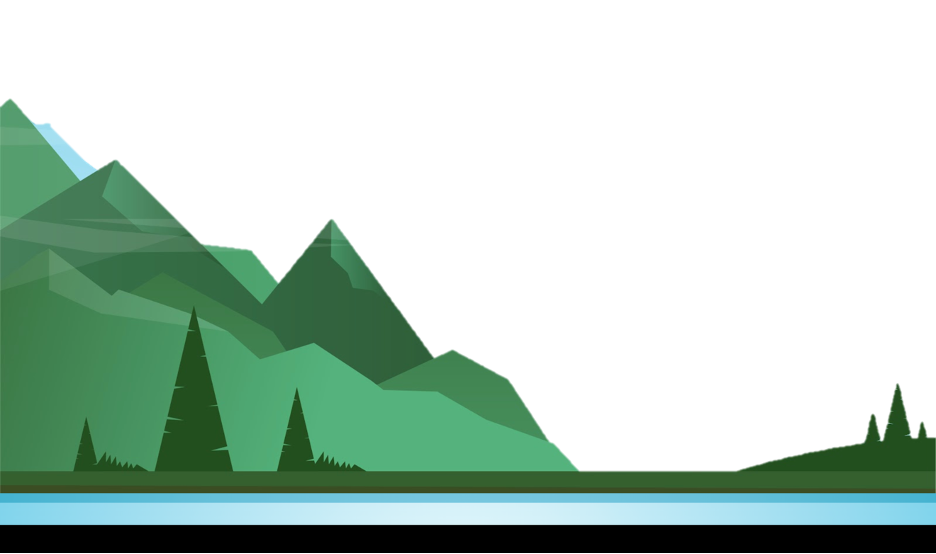
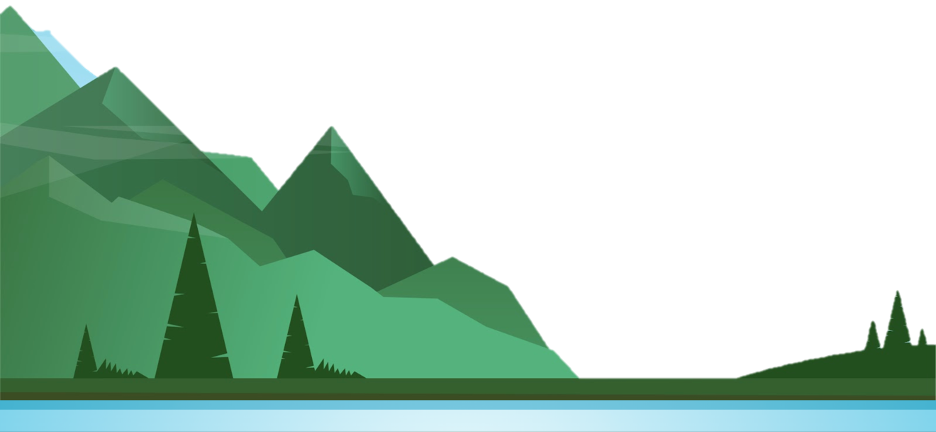
Landing page

diff --git a/app/imports/ui/pages/Landing.jsx b/app/imports/ui/pages/Landing.jsx
@@ -3,21 +3,20 @@ import { Col, Container, Image, Row } from 'react-bootstrap';
 
 /* A simple static component to render some text for the landing page. */
 const Landing = () => (
-  <div>
-    <Container id="landing-page" fluid className="py-3">
-      <div style={{ zIndex: 2 }}>
-        <h1>Welcome to Gawkysaur!</h1>
-      </div>
-      <div style={{ position: 'fixed', bottom: 30, zIndex: 1 }}>
-        <Image className="translateGawkysaur" src="images/gawkysaurTurtleFancy.png" style={{ height: '30%', width: '30%', zIndex: -1 }} />
-      </div>
-      <Col>
-        <Image src="images/backgroundTransparent.png" style={{ width: '100%', height: '100%', float: 'right' }} />
-        <Row><Image src="https://w7.pngwing.com/pngs/892/738/png-transparent-cartoon-green-mountain-cartoon-decoration-angle-triangle-christmas-decoration.png" style={{ width: '50%', position: 'fixed', right: '0' }} /></Row>
-        <Row>      <Image style={{ position: 'fixed', bottom: '-10' }} src="https://i.dlpng.com/static/png/6405906_preview.png" />
-        </Row>
-      </Col>
-    </Container>
+  <div id="landing-page">
+    <div style={{ float: 'right', paddingRight: '5em' }}>
+      <h1>Welcome to Gawkysaur!</h1>
+    </div>
+    <div style={{ position: 'fixed', bottom: 30, zIndex: 2 }}>
+      <Image className="translateGawkysaur" src="images/gawkysaurTurtleFancy.png" style={{ height: '20%', width: '20%' }} />
+    </div>
+    <Col>
+
+      <Image src="images/backgroundTransparent.png" style={{ width: '100%', height: '50%', float: 'right' }} />
+      <Row style={{ paddingRight: 0, float: 'right' }}>
+        <Image style={{ position: 'fixed', bottom: '0', zIndex: 1 }} src="images/waterPretty.png" />
+      </Row>
+    </Col>
   </div>
 );
 

diff --git a/app/client/style.css b/app/client/style.css
@@ -558,9 +558,7 @@ Leaderboard
   position: fixed;
   top: 0;
   left: 0;
-
-  transform: translateZ(0) scale(1, 1);
-
+  padding: '0 0 0 0';
   /* Preserve aspect ratio */
   min-width: 100%;
   min-height: 100%;
@@ -570,7 +568,7 @@ Leaderboard
   height: 100px;
   width: 100px;
   transition: 0.5s;
-  animation: Gawkysaurmove 40s infinite;
+  animation: Gawkysaurmove 50s infinite;
 }
 
 @keyframes Gawkysaurmove{
@@ -586,4 +584,12 @@ Leaderboard
   100% {
     transform: translateX(100px) rotateY(180deg);
   }
+}
+
+.dot {
+  height: 25px;
+  width: 25px;
+  background-color: #bbb;
+  border-radius: 50%;
+  display: inline-block;
 }
